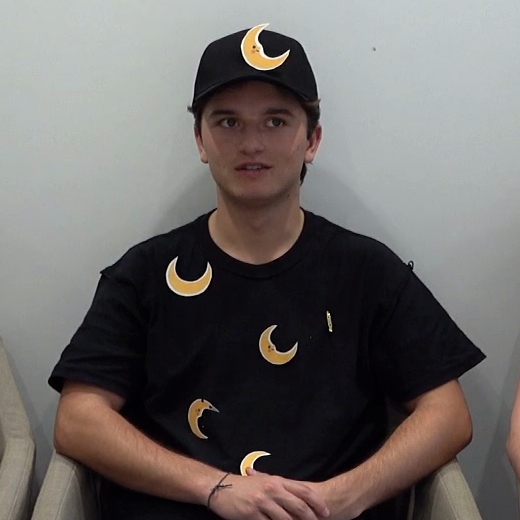
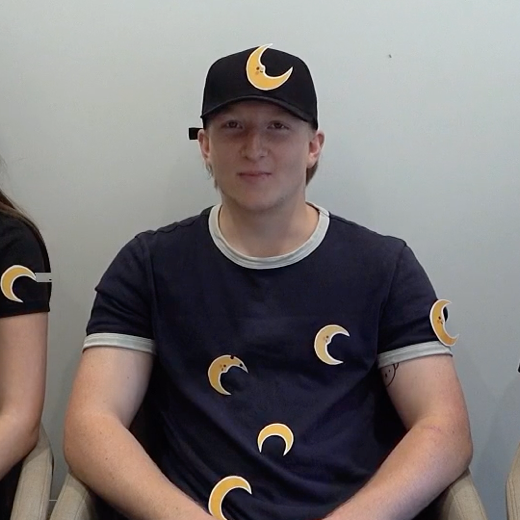
Sticker task before liking check; pictures from the Study 2 videos
- Sticker allocation now comes before the liking check; texts moved with it.
- Member pictures and team photos are now taken from the Study 2 videos
  (they were copies from Study 1), at moments when the team smiles. The
  Moon member picture shows the boy from the green/yellow videos.
- Liking screen: help text no longer touches the Skip button.

diff --git a/Study2_Web/config.js b/Study2_Web/config.js
@@ -123,13 +123,13 @@ const CFG = {
    show_teams_say: '[point to the {own} team] "Here are some people who are also on your team, the {own} team."\n[point to the {other} team] "And here are some people who are on the other team, the {other} team."',
    teams_no_group: 'Show the child both teams, then tap Continue.',
    teams_no_group_say: '[point to the Moon team] "Here are some people who play on the Moon team."\n[point to the Sun team] "And here are some people who play on the Sun team."',
-   liking: 'Liking check: leave one person of each team on the table (same gender as the child: {pl}). Ask about each and tap the child\'s answer under the picture.',
-   liking_say: '"Now I will ask you some questions about the two teams. Let\'s move these people out of the way."\n[point to {this_sg} from {whose1}] "Do you see {this_sg} from {whose1}? Do you like or not like {him}?" "Okay."\n"And do you really like or kind of like {him}? / And do you really not like or kind of not like {him}?" "Okay."\n[the same for {this_sg} from {whose2}]',
+   liking: 'Liking check: ask about each person and tap the child\'s answer under the picture.',
+   liking_say: '[point to {this_sg} from {whose1}] "Do you see {this_sg} from {whose1}? Do you like or not like {him}?" "Okay."\n"And do you really like or kind of like {him}? / And do you really not like or kind of not like {him}?" "Okay."\n[the same for {this_sg} from {whose2}]\n[move the photos out of sight] "Later we\'ll hear from these two teams about the game we will play."',
    liking_options: {really_like: 'really like', kind_of_like: 'kind of like',
                     kind_of_not_like: 'kind of not like', really_not_like: 'really not like'},
    no_answer: 'No answer',
-   sticker_intro: 'Sticker task\n\nPut {n} stickers on the table. On the next screen the child gives them to the two team members; tap the dots under each person to record how many each gets.',
-   sticker_intro_say: '"Now I have some stickers here, let\'s see how many I have. I have 1, 2, 3, 4, 5 stickers. And now you can tell me how many stickers to give each of these two {pl}."\n[next screen, point to each person]\n"So out of these 5 stickers, how many stickers should I give to {this_sg} from {whose1}?"\n"Okay, and how many stickers should I give to {this_sg} from {whose2}?"\n[move the photos and stickers out of sight] "Later we\'ll hear from these two teams about the game we will play."',
+   sticker_intro: 'Sticker task\n\nLeave one person of each team on the table (same gender as the child: {pl}) and put {n} stickers on the table. On the next screen the child gives them to the two team members; tap the dots under each person to record how many each gets.',
+   sticker_intro_say: '"Now I will ask you some questions about the two teams. Let\'s move these people out of the way." [leave one person of each team]\n"Now I have some stickers here, let\'s see how many I have. I have 1, 2, 3, 4, 5 stickers. And now you can tell me how many stickers to give each of these two {pl}."\n[next screen, point to each person]\n"So out of these 5 stickers, how many stickers should I give to {this_sg} from {whose1}?"\n"Okay, and how many stickers should I give to {this_sg} from {whose2}?"\n[move the stickers out of sight]',
    setup_first: 'Round 1 of {n} - game introduction\n\nPut the {k} {color} boxes in front of the child and introduce the two animals ({pl_l} / {pl_r}).',
    setup_first_say: '"Now we can play the game! The game today involves a zoo. See, here is the zoo! Many animals are part of the zoo, including some {pl_l} [hold up the {l}] and {pl_r} [hold up the {r}]." [let the child name both animals]\n"Your job will be to figure out whether there are more {pl_l} or more {pl_r} in the boxes. Right now, each one of these boxes has an animal in it, either {a_l} or {a_r}."',
    setup: 'Round {t} of {n}\n\nClear away the boxes, logos and toy animals of the last round. Put the {k} {color} boxes in front of the child and introduce the two animals ({pl_l} / {pl_r}).',
@@ -198,13 +198,13 @@ const CFG = {
    show_teams_say: '[wijs naar het {own}-team] "Kijk, dit zijn kinderen die eerder in jouw team hebben gespeeld."\n[wijs naar het {other}-team] "En dit zijn kinderen die in het andere team hebben gespeeld, het {other}-team."',
    teams_no_group: 'Laat het kind beide teams zien en tik dan op Verder.',
    teams_no_group_say: '[wijs naar het Maan-team] "Kijk, dit zijn kinderen die eerder in het Maan-team hebben gespeeld."\n[wijs naar het Zon-team] "En dit zijn kinderen die in het Zon-team hebben gespeeld."',
-   liking: 'Sympathie: laat van elk team één persoon van hetzelfde geslacht als het kind op tafel liggen ({pl}). Vraag naar ieder en tik het antwoord van het kind aan onder het plaatje.',
-   liking_say: '"Nu ga ik je een paar vragen stellen over de twee teams. Laten we deze mensen even aan de kant zetten."\n[wijs naar {this_sg} van {whose1}] "Zie je {this_sg} van {whose1}? Vind je {him} aardig of niet aardig?" "Oké."\n"En vind je {him} heel aardig of een beetje aardig? / En vind je {him} helemaal niet aardig of een beetje niet aardig?" "Oké."\n[hetzelfde voor {this_sg} van {whose2}]',
+   liking: 'Sympathie: vraag naar ieder en tik het antwoord van het kind aan onder het plaatje.',
+   liking_say: '[wijs naar {this_sg} van {whose1}] "Zie je {this_sg} van {whose1}? Vind je {him} aardig of niet aardig?" "Oké."\n"En vind je {him} heel aardig of een beetje aardig? / En vind je {him} helemaal niet aardig of een beetje niet aardig?" "Oké."\n[hetzelfde voor {this_sg} van {whose2}]\n[haal de foto\'s uit het zicht] "Straks horen we van deze twee teams over het spelletje dat we gaan spelen."',
    liking_options: {really_like: 'heel aardig', kind_of_like: 'een beetje aardig',
                     kind_of_not_like: 'een beetje niet aardig', really_not_like: 'helemaal niet aardig'},
    no_answer: 'Geen antwoord',
-   sticker_intro: 'Stickertaak\n\nLeg {n} stickers op tafel. Op het volgende scherm verdeelt het kind ze over de twee teamleden; tik op de bolletjes onder elke persoon om te noteren hoeveel ieder krijgt.',
-   sticker_intro_say: '"Ik heb hier wat stickers, laten we eens kijken hoeveel ik er heb. Ik heb 1, 2, 3, 4, 5 stickers. Nu mag jij mij vertellen hoeveel stickers ik aan elk van deze twee {pl} moet geven."\n[volgend scherm, wijs naar elke persoon]\n"Hoeveel van deze 5 stickers moet ik geven aan {this_sg} van {whose1}?"\n"Oké, en hoeveel stickers moet ik geven aan {this_sg} van {whose2}?"\n[haal de foto\'s en stickers uit het zicht] "Straks horen we van deze twee teams over het spelletje dat we gaan spelen."',
+   sticker_intro: 'Stickertaak\n\nLaat van elk team één persoon van hetzelfde geslacht als het kind op tafel liggen ({pl}) en leg {n} stickers op tafel. Op het volgende scherm verdeelt het kind ze over de twee teamleden; tik op de bolletjes onder elke persoon om te noteren hoeveel ieder krijgt.',
+   sticker_intro_say: '"Nu ga ik je een paar vragen stellen over de twee teams. Laten we deze mensen even aan de kant zetten." [laat van elk team één persoon liggen]\n"Ik heb hier wat stickers, laten we eens kijken hoeveel ik er heb. Ik heb 1, 2, 3, 4, 5 stickers. Nu mag jij mij vertellen hoeveel stickers ik aan elk van deze twee {pl} moet geven."\n[volgend scherm, wijs naar elke persoon]\n"Hoeveel van deze 5 stickers moet ik geven aan {this_sg} van {whose1}?"\n"Oké, en hoeveel stickers moet ik geven aan {this_sg} van {whose2}?"\n[haal de stickers uit het zicht]',
    setup_first: 'Ronde 1 van {n} - introductie van het spel\n\nZet de {k} {color} doosjes voor het kind neer en introduceer de twee dieren ({pl_l} / {pl_r}).',
    setup_first_say: '"Nu kunnen we het spelletje gaan spelen! Het spelletje van vandaag gaat over een dierentuin. Kijk, hier is de dierentuin! In de dierentuin wonen veel dieren, zoals {pl_l} [houd {the_l} omhoog] en {pl_r} [houd {the_r} omhoog]." [laat het kind beide dieren benoemen]\n"Jouw taak is om uit te zoeken of er meer {pl_l} of meer {pl_r} in de doosjes zitten. In elk van deze doosjes zit één dier, {a_l} of {a_r}."',
    setup: 'Ronde {t} van {n}\n\nRuim de doosjes, logo\'s en speelgoeddieren van de vorige ronde op. Zet de {k} {color} doosjes voor het kind neer en introduceer de twee dieren ({pl_l} / {pl_r}).',

diff --git a/docs/config.js b/docs/config.js
@@ -123,13 +123,13 @@ const CFG = {
    show_teams_say: '[point to the {own} team] "Here are some people who are also on your team, the {own} team."\n[point to the {other} team] "And here are some people who are on the other team, the {other} team."',
    teams_no_group: 'Show the child both teams, then tap Continue.',
    teams_no_group_say: '[point to the Moon team] "Here are some people who play on the Moon team."\n[point to the Sun team] "And here are some people who play on the Sun team."',
-   liking: 'Liking check: leave one person of each team on the table (same gender as the child: {pl}). Ask about each and tap the child\'s answer under the picture.',
-   liking_say: '"Now I will ask you some questions about the two teams. Let\'s move these people out of the way."\n[point to {this_sg} from {whose1}] "Do you see {this_sg} from {whose1}? Do you like or not like {him}?" "Okay."\n"And do you really like or kind of like {him}? / And do you really not like or kind of not like {him}?" "Okay."\n[the same for {this_sg} from {whose2}]',
+   liking: 'Liking check: ask about each person and tap the child\'s answer under the picture.',
+   liking_say: '[point to {this_sg} from {whose1}] "Do you see {this_sg} from {whose1}? Do you like or not like {him}?" "Okay."\n"And do you really like or kind of like {him}? / And do you really not like or kind of not like {him}?" "Okay."\n[the same for {this_sg} from {whose2}]\n[move the photos out of sight] "Later we\'ll hear from these two teams about the game we will play."',
    liking_options: {really_like: 'really like', kind_of_like: 'kind of like',
                     kind_of_not_like: 'kind of not like', really_not_like: 'really not like'},
    no_answer: 'No answer',
-   sticker_intro: 'Sticker task\n\nPut {n} stickers on the table. On the next screen the child gives them to the two team members; tap the dots under each person to record how many each gets.',
-   sticker_intro_say: '"Now I have some stickers here, let\'s see how many I have. I have 1, 2, 3, 4, 5 stickers. And now you can tell me how many stickers to give each of these two {pl}."\n[next screen, point to each person]\n"So out of these 5 stickers, how many stickers should I give to {this_sg} from {whose1}?"\n"Okay, and how many stickers should I give to {this_sg} from {whose2}?"\n[move the photos and stickers out of sight] "Later we\'ll hear from these two teams about the game we will play."',
+   sticker_intro: 'Sticker task\n\nLeave one person of each team on the table (same gender as the child: {pl}) and put {n} stickers on the table. On the next screen the child gives them to the two team members; tap the dots under each person to record how many each gets.',
+   sticker_intro_say: '"Now I will ask you some questions about the two teams. Let\'s move these people out of the way." [leave one person of each team]\n"Now I have some stickers here, let\'s see how many I have. I have 1, 2, 3, 4, 5 stickers. And now you can tell me how many stickers to give each of these two {pl}."\n[next screen, point to each person]\n"So out of these 5 stickers, how many stickers should I give to {this_sg} from {whose1}?"\n"Okay, and how many stickers should I give to {this_sg} from {whose2}?"\n[move the stickers out of sight]',
    setup_first: 'Round 1 of {n} - game introduction\n\nPut the {k} {color} boxes in front of the child and introduce the two animals ({pl_l} / {pl_r}).',
    setup_first_say: '"Now we can play the game! The game today involves a zoo. See, here is the zoo! Many animals are part of the zoo, including some {pl_l} [hold up the {l}] and {pl_r} [hold up the {r}]." [let the child name both animals]\n"Your job will be to figure out whether there are more {pl_l} or more {pl_r} in the boxes. Right now, each one of these boxes has an animal in it, either {a_l} or {a_r}."',
    setup: 'Round {t} of {n}\n\nClear away the boxes, logos and toy animals of the last round. Put the {k} {color} boxes in front of the child and introduce the two animals ({pl_l} / {pl_r}).',
@@ -198,13 +198,13 @@ const CFG = {
    show_teams_say: '[wijs naar het {own}-team] "Kijk, dit zijn kinderen die eerder in jouw team hebben gespeeld."\n[wijs naar het {other}-team] "En dit zijn kinderen die in het andere team hebben gespeeld, het {other}-team."',
    teams_no_group: 'Laat het kind beide teams zien en tik dan op Verder.',
    teams_no_group_say: '[wijs naar het Maan-team] "Kijk, dit zijn kinderen die eerder in het Maan-team hebben gespeeld."\n[wijs naar het Zon-team] "En dit zijn kinderen die in het Zon-team hebben gespeeld."',
-   liking: 'Sympathie: laat van elk team één persoon van hetzelfde geslacht als het kind op tafel liggen ({pl}). Vraag naar ieder en tik het antwoord van het kind aan onder het plaatje.',
-   liking_say: '"Nu ga ik je een paar vragen stellen over de twee teams. Laten we deze mensen even aan de kant zetten."\n[wijs naar {this_sg} van {whose1}] "Zie je {this_sg} van {whose1}? Vind je {him} aardig of niet aardig?" "Oké."\n"En vind je {him} heel aardig of een beetje aardig? / En vind je {him} helemaal niet aardig of een beetje niet aardig?" "Oké."\n[hetzelfde voor {this_sg} van {whose2}]',
+   liking: 'Sympathie: vraag naar ieder en tik het antwoord van het kind aan onder het plaatje.',
+   liking_say: '[wijs naar {this_sg} van {whose1}] "Zie je {this_sg} van {whose1}? Vind je {him} aardig of niet aardig?" "Oké."\n"En vind je {him} heel aardig of een beetje aardig? / En vind je {him} helemaal niet aardig of een beetje niet aardig?" "Oké."\n[hetzelfde voor {this_sg} van {whose2}]\n[haal de foto\'s uit het zicht] "Straks horen we van deze twee teams over het spelletje dat we gaan spelen."',
    liking_options: {really_like: 'heel aardig', kind_of_like: 'een beetje aardig',
                     kind_of_not_like: 'een beetje niet aardig', really_not_like: 'helemaal niet aardig'},
    no_answer: 'Geen antwoord',
-   sticker_intro: 'Stickertaak\n\nLeg {n} stickers op tafel. Op het volgende scherm verdeelt het kind ze over de twee teamleden; tik op de bolletjes onder elke persoon om te noteren hoeveel ieder krijgt.',
-   sticker_intro_say: '"Ik heb hier wat stickers, laten we eens kijken hoeveel ik er heb. Ik heb 1, 2, 3, 4, 5 stickers. Nu mag jij mij vertellen hoeveel stickers ik aan elk van deze twee {pl} moet geven."\n[volgend scherm, wijs naar elke persoon]\n"Hoeveel van deze 5 stickers moet ik geven aan {this_sg} van {whose1}?"\n"Oké, en hoeveel stickers moet ik geven aan {this_sg} van {whose2}?"\n[haal de foto\'s en stickers uit het zicht] "Straks horen we van deze twee teams over het spelletje dat we gaan spelen."',
+   sticker_intro: 'Stickertaak\n\nLaat van elk team één persoon van hetzelfde geslacht als het kind op tafel liggen ({pl}) en leg {n} stickers op tafel. Op het volgende scherm verdeelt het kind ze over de twee teamleden; tik op de bolletjes onder elke persoon om te noteren hoeveel ieder krijgt.',
+   sticker_intro_say: '"Nu ga ik je een paar vragen stellen over de twee teams. Laten we deze mensen even aan de kant zetten." [laat van elk team één persoon liggen]\n"Ik heb hier wat stickers, laten we eens kijken hoeveel ik er heb. Ik heb 1, 2, 3, 4, 5 stickers. Nu mag jij mij vertellen hoeveel stickers ik aan elk van deze twee {pl} moet geven."\n[volgend scherm, wijs naar elke persoon]\n"Hoeveel van deze 5 stickers moet ik geven aan {this_sg} van {whose1}?"\n"Oké, en hoeveel stickers moet ik geven aan {this_sg} van {whose2}?"\n[haal de stickers uit het zicht]',
    setup_first: 'Ronde 1 van {n} - introductie van het spel\n\nZet de {k} {color} doosjes voor het kind neer en introduceer de twee dieren ({pl_l} / {pl_r}).',
    setup_first_say: '"Nu kunnen we het spelletje gaan spelen! Het spelletje van vandaag gaat over een dierentuin. Kijk, hier is de dierentuin! In de dierentuin wonen veel dieren, zoals {pl_l} [houd {the_l} omhoog] en {pl_r} [houd {the_r} omhoog]." [laat het kind beide dieren benoemen]\n"Jouw taak is om uit te zoeken of er meer {pl_l} of meer {pl_r} in de doosjes zitten. In elk van deze doosjes zit één dier, {a_l} of {a_r}."',
    setup: 'Ronde {t} van {n}\n\nRuim de doosjes, logo\'s en speelgoeddieren van de vorige ronde op. Zet de {k} {color} doosjes voor het kind neer en introduceer de twee dieren ({pl_l} / {pl_r}).',

diff --git a/Study2_Web/app.js b/Study2_Web/app.js
@@ -1195,9 +1195,9 @@ async function likingScreen(memberGender, sides, header, say) {
                                     {color: CFG.EXP_BUTTON_COLOR, width: 0.36});
     });
   });
-  const done = button(TXT.continue, 0, -0.3);
+  const done = button(TXT.continue, 0, -0.265);
   const skip = button(EXP.skip, HALF_W - 0.12, -0.45, {color: CFG.EXP_BUTTON_COLOR});
-  sayText(say, 0, -0.35, {size: 0.021});
+  sayText(say, 0, -0.325, {size: 0.019});
   const draw = () => {
     CFG.TEAMS.forEach(team => Object.entries(buttons[team]).forEach(([value, b]) =>
       setColor(b, answer[team] === value ? CFG.SELECTED_COLOR : CFG.EXP_BUTTON_COLOR)));
@@ -1345,17 +1345,17 @@ async function main() {
   design.team_b = otherTeam(design.team_a);
   const [teamA, teamB] = [design.team_a, design.team_b];
 
-  // Liking check and sticker task with one gender-matched member per team
+  // Sticker task, then liking check, with one gender-matched member per team
   const memberGender = ['female', 'male'].includes(info.gender) ? info.gender : pick(['female', 'male']);
   const [thisSg, pl, him] = CFG.MEMBER_WORDS[lang][memberGender];
   const [asked1, asked2] = namedOrder();
   const askWords = {this_sg: thisSg, pl, him, whose1: whose(asked1), whose2: whose(asked2)};
   const sides = Math.random() < 0.5 ? [...CFG.TEAMS] : [...CFG.TEAMS].reverse();
-  const liking = await likingScreen(memberGender, sides, fmt(EXP.liking, {pl}),
-                                    fmt(EXP.liking_say, askWords));
-  await experimenterScreen(fmt(EXP.sticker_intro, {n: CFG.N_STICKERS}), null,
+  await experimenterScreen(fmt(EXP.sticker_intro, {n: CFG.N_STICKERS, pl}), null,
                            fmt(EXP.sticker_intro_say, askWords));
   const stickers = await stickerTask(memberGender, sides);
+  const liking = await likingScreen(memberGender, sides, EXP.liking,
+                                    fmt(EXP.liking_say, askWords));
   const score = v => (v ? CFG.LIKING_SCORE[v] : '');
   Object.assign(session, {
     sticker_member_gender: memberGender, sticker_pic_left: sides[0],

diff --git a/docs/app.js b/docs/app.js
@@ -1195,9 +1195,9 @@ async function likingScreen(memberGender, sides, header, say) {
                                     {color: CFG.EXP_BUTTON_COLOR, width: 0.36});
     });
   });
-  const done = button(TXT.continue, 0, -0.3);
+  const done = button(TXT.continue, 0, -0.265);
   const skip = button(EXP.skip, HALF_W - 0.12, -0.45, {color: CFG.EXP_BUTTON_COLOR});
-  sayText(say, 0, -0.35, {size: 0.021});
+  sayText(say, 0, -0.325, {size: 0.019});
   const draw = () => {
     CFG.TEAMS.forEach(team => Object.entries(buttons[team]).forEach(([value, b]) =>
       setColor(b, answer[team] === value ? CFG.SELECTED_COLOR : CFG.EXP_BUTTON_COLOR)));
@@ -1345,17 +1345,17 @@ async function main() {
   design.team_b = otherTeam(design.team_a);
   const [teamA, teamB] = [design.team_a, design.team_b];
 
-  // Liking check and sticker task with one gender-matched member per team
+  // Sticker task, then liking check, with one gender-matched member per team
   const memberGender = ['female', 'male'].includes(info.gender) ? info.gender : pick(['female', 'male']);
   const [thisSg, pl, him] = CFG.MEMBER_WORDS[lang][memberGender];
   const [asked1, asked2] = namedOrder();
   const askWords = {this_sg: thisSg, pl, him, whose1: whose(asked1), whose2: whose(asked2)};
   const sides = Math.random() < 0.5 ? [...CFG.TEAMS] : [...CFG.TEAMS].reverse();
-  const liking = await likingScreen(memberGender, sides, fmt(EXP.liking, {pl}),
-                                    fmt(EXP.liking_say, askWords));
-  await experimenterScreen(fmt(EXP.sticker_intro, {n: CFG.N_STICKERS}), null,
+  await experimenterScreen(fmt(EXP.sticker_intro, {n: CFG.N_STICKERS, pl}), null,
                            fmt(EXP.sticker_intro_say, askWords));
   const stickers = await stickerTask(memberGender, sides);
+  const liking = await likingScreen(memberGender, sides, EXP.liking,
+                                    fmt(EXP.liking_say, askWords));
   const score = v => (v ? CFG.LIKING_SCORE[v] : '');
   Object.assign(session, {
     sticker_member_gender: memberGender, sticker_pic_left: sides[0],

diff --git a/README.md b/README.md
@@ -29,8 +29,9 @@ All commands below are run from the `Study2_Web` folder.
 2. **Introduction**: in the *group* condition the child picks a team and taps
    their team. In the *no-group* condition the child is the zoo helper and is
    shown both teams.
-3. **Liking check**: one gender-matched member of each team (really like … really
-   not like), then the **sticker task** (5 stickers).
+3. **Sticker task** (5 stickers) with one gender-matched member of each team,
+   then the **liking check** (really like … really not like) with the same two
+   members.
 4. **4 trials**, one animal pair each:
    - setup (in the first trial, the game introduction and scale practice);
    - **step 2**: belief video of each team (no reason), each followed by "what
